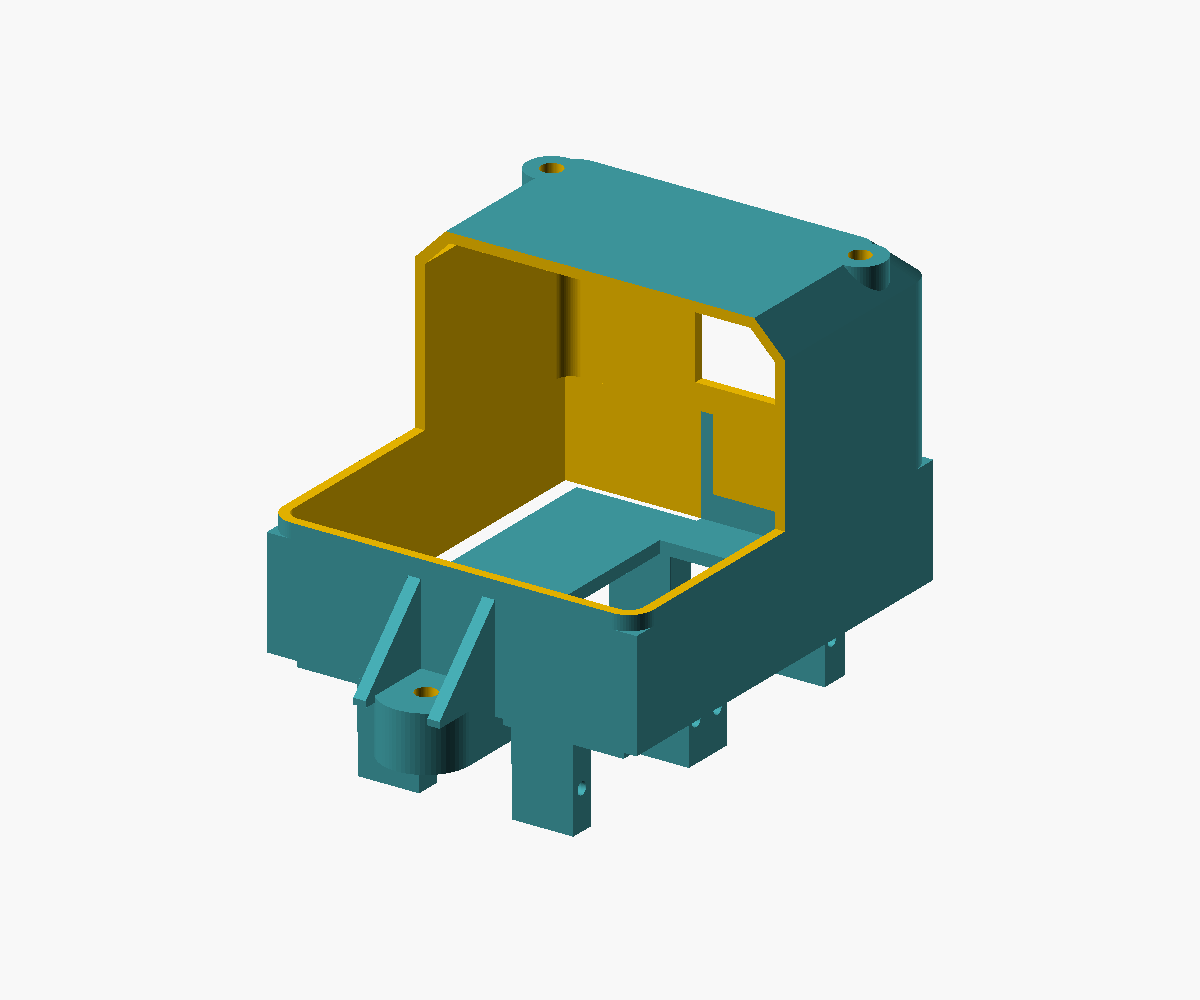
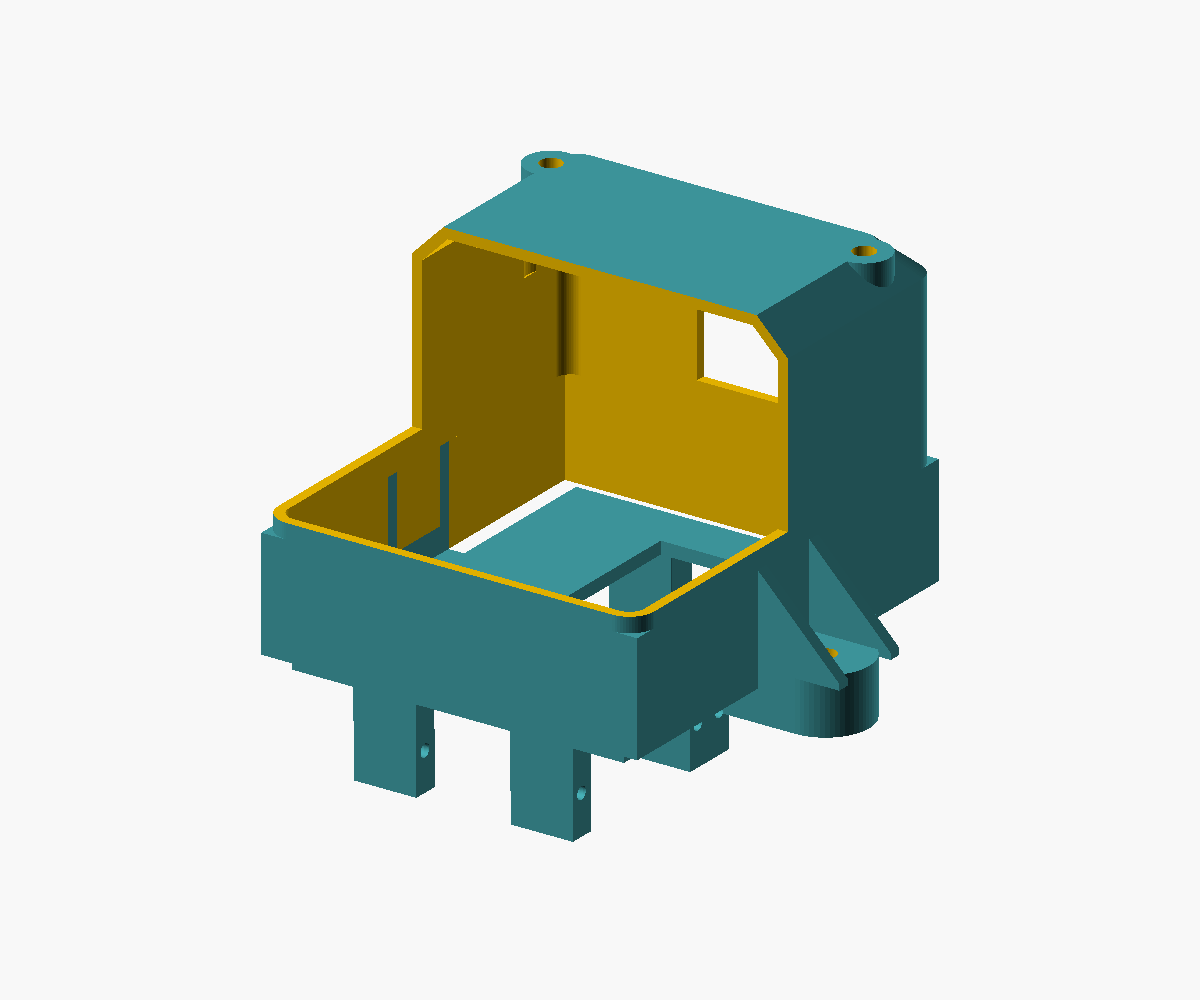
fix: use MicroHuli side tabs and 12 mm roof holders

diff --git a/hardware/MicroHuli/enclosure/build_body.py b/hardware/MicroHuli/enclosure/build_body.py
@@ -79,46 +79,49 @@ def check_assembly(openscad):
         intersection("assembled body/chassis clearance (0.001 mm face tolerance)",
                      "body();", "translate([0,0,-0.001]) chassis();")
         # Independently specified axes catch misplaced holes and obstructions.
-        for y in (-41, 41):
-            intersection(f"chassis bolt {y}: shank/nut/tool access",
+        for x in (-36, 36):
+            intersection(f"chassis bolt {x}: shank/nut/tool access",
                          "union() { body(); chassis(); }", f'''union() {{
-                translate([0,{y},-6]) cylinder(d=3.2,h=11);
-                translate([0,{y},-20]) cylinder(d=5.5/cos(30),h=17.5,$fn=6);
-                translate([0,{y},4.1]) cylinder(d=8,h=30);
+                translate([{x},0,-6]) cylinder(d=3.2,h=11);
+                translate([{x},0,-20]) cylinder(d=5.5/cos(30),h=17.5,$fn=6);
+                translate([{x},0,4.1]) cylinder(d=8,h=30);
             }}''')
-            intersection(f"external tab support at bolt {y}", "body();", f'''difference() {{
-                translate([0,{y},0.1]) cylinder(d=10,h=0.4);
-                translate([0,{y},0]) cylinder(d=4,h=1);
+            intersection(f"external tab support at bolt {x}", "body();", f'''difference() {{
+                translate([{x},0,0.1]) cylinder(d=10,h=0.4);
+                translate([{x},0,0]) cylinder(d=4,h=1);
             }}''', 26.3, 26.4)
         for x in (-25, 25):
             for y in (-25, 25):
                 intersection(f"board bolt {x},{y}: shank/head/nut access", "body();", f'''union() {{
-                    translate([{x},{y},44.9]) cylinder(d=3.2,h=7);
+                    translate([{x},{y},37.9]) cylinder(d=3.2,h=14);
                     translate([{x},{y},50.01]) cylinder(d=7,h=15);
-                    translate([{x},{y},40]) cylinder(d=7,h=3.3);
+                    translate([{x},{y},33]) cylinder(d=7,h=3.3);
                 }}''')
                 # Support exists at the PCB contact plane, not just at the roof.
                 intersection(f"board support {x},{y}", "body();", f'''difference() {{
-                    translate([{x},{y},45.1]) cylinder(d=7,h=0.4);
-                    translate([{x},{y},45]) cylinder(d=4,h=1);
+                    translate([{x},{y},38.1]) cylinder(d=7,h=0.4);
+                    translate([{x},{y},38]) cylinder(d=4,h=1);
                 }}''', 10.3, 10.4)
         intersection("rear 15 x 15 opening", "body();",
                      "translate([-7.49,33,20.01]) cube([14.98,3,14.98]);")
         intersection("front OLED slot", "body();",
                      "translate([-9.99,-36,40.01]) cube([19.98,3,2.98]);")
-        intersection("OLED wire passage below raised board", "body();",
+        intersection("existing OLED cable passage above lowered board", "body();",
                      "translate([-4,-36,41]) cube([8,36,1.5]);")
         # Compare added material against the shell so its rounded corners are
         # not incorrectly classified as internal fastener obstructions.
         intersection("lower body cavity clear of chassis mounts", "difference() { body(); shell(); }",
-                     "translate([-29,-33.99,0.01]) cube([58,67.98,19.9]);")
+                     "translate([-28.99,-33.99,0.01]) cube([57.98,67.98,19.9]);")
         intersection("chassis entirely below the plate plane", "chassis();",
                      "translate([-50,-50,0.01]) cube([100,100,30]);")
         intersection("no original chassis cuts", "rotate([180,0,0]) original_chassis();",
                      "difference() { cube([120,120,120],center=true); chassis(); }")
-        intersection("no added material in servo bays", '''difference() {
+        # Original brackets occupy approximately X=-17.5..17.7, Y=-32..32.
+        # Keep additions outside a larger bracket region; real moving legs are
+        # not modeled by this check and still need physical qualification.
+        intersection("no added material around original servo brackets", '''difference() {
             chassis(); rotate([180,0,0]) original_chassis();
-        }''', "translate([-27,-30.9,-20]) cube([54,61.8,19.9]);")
+        }''', "translate([-20,-33,-20]) cube([40,66,19.9]);")
         # Isolate the independent CAD renders and allow at most four processes
         # at once to keep verification time and memory use bounded.
         with ThreadPoolExecutor(max_workers=4) as pool:
@@ -140,16 +143,16 @@ def main():
     output.mkdir(parents=True, exist_ok=True)
     reports = {}
     for name in ("body", "chassis"):
-        path = output / f"MicroHuli_{name}_M3_v5.stl"
+        path = output / f"MicroHuli_{name}_M3_v6.stl"
         render(openscad, SOURCE, path, "--export-format", "binstl", "-D", f'part="{name}"')
         reports[name] = mesh(path)[2]
-        expected = [60, 96, 50] if name == "body" else [53, 96, 15.996]
+        expected = [86, 70, 50] if name == "body" else [86, 66, 15.996]
         if any(not math.isclose(a, b, abs_tol=0.01)
                for a, b in zip(reports[name]["size_mm"], expected)):
             raise ValueError(f"Unexpected {name} dimensions: {reports[name]}")
         print(f"PASS {name}: {reports[name]}")
     checks = check_assembly(openscad)
-    (output / "body_M3_v5_report.json").write_text(json.dumps({
+    (output / "body_M3_v6_report.json").write_text(json.dumps({
         "parts": reports, "checks": checks,
         "qualification": "CAD geometry only; no slicing or physical qualification",
     }, indent=2) + "\n", encoding="utf-8")
@@ -160,7 +163,7 @@ def main():
             ("exploded", "120,-170,125,0,0,35"),
             ("body", "110,160,-100,0,0,25"),
         ):
-            render(openscad, SOURCE, output / f"body_M3_v5_{name}.png",
+            render(openscad, SOURCE, output / f"body_M3_v6_{name}.png",
                    "--render", "--imgsize=1200,1000", "--colorscheme=Tomorrow",
                    f"--camera={camera}", "--viewall", "--autocenter", "--projection=o",
                    "-D", f'part="{name}"', "-D", "print_orientation=false")

diff --git a/hardware/MicroHuli/enclosure/body-cute-50mm.md b/hardware/MicroHuli/enclosure/body-cute-50mm.md
@@ -4,10 +4,10 @@ This is the corrected body requested after the raised-rim interpretation was
 rejected. The main shell is **60 × 70 × 50 mm**, including the roof.
 It has a **closed top**, a small **5 mm sloped shoulder** like the original
 cover, softly rounded upper plan corners, and an open bottom for the chassis.
-The current **M3 v5** revision puts both chassis fasteners on external front/rear
+The current **M3 v6** revision puts both chassis fasteners on external left/right
 tabs. The chassis is assembled with its **flat plate on top and servo brackets
 pointing down**, leaving the body cavity free for components. Four roof standoffs
-hold the development board just above the OLED cable slot.
+hold the development board 12 mm below the outside roof top.
 
 ![Front and rear of the corrected body](body-cute-50mm.png)
 
@@ -21,23 +21,24 @@ hold the development board just above the OLED cable slot.
   **58 × 68 mm cavity for the first 16 mm**, without internal chassis mounting lugs.
   A short transition joins the square collar to rounded upper corners. The cavity
   narrows beneath the roof shoulder.
-- Two external chassis screws: **82 mm apart**, at X=0, Y=±41 mm. Each body tab
+- Two external chassis screws: **72 mm apart**, at X=±36 mm, Y=0. Each body tab
   is 4 mm thick and mates with a 5 mm chassis tab. Both have **3.4 mm through
   holes**. The chassis tabs have 5.8 mm across-flats nut pockets open from below.
   External side ribs reinforce the body tabs and leave the screw/tool axes clear.
   The original chassis plate and servo brackets have no holes or cuts added.
 - Four board screws: **50 × 50 mm centre-to-centre**, at X=±25, Y=±25 mm.
   Standoffs are 8 mm diameter with 3.4 mm through holes. Their PCB contact plane
-  is Z=45 mm, 5 mm below the outer roof top and 3.4 mm below the main roof
+  is Z=38 mm, 12 mm below the outer roof top and 10.4 mm below the main roof
   underside. Flat screw-head lands extend through the sloped roof shoulder;
   screw heads sit outside the roof. Local
   relief below the posts clears 7 mm washers/nuts and retains 1.3 mm outer wall.
-  With the assumed **1.6 mm PCB**, its underside is **Z=43.4 mm**, 0.4 mm above
-  the OLED slot's upper edge. Wires entering at Z=40–43 mm pass below the PCB.
+  With the assumed **1.6 mm PCB**, its underside is **Z=36.4 mm**. The post ends
+  and PCB top are 2 mm below the OLED slot's lower edge. Wires entering the
+  retained Z=40–43 mm slot pass **above the PCB**, between board and roof.
   The populated component outline and actual connector bend radius still need
   checking; this height does not establish a clear route around components.
-- The external tabs extend **13 mm beyond each end** of the shell. Body plastic
-  envelope is **60 × 96 × 50 mm**, revised chassis is **53 × 96 × 15.996 mm**.
+- The external tabs extend **13 mm beyond each side** of the shell. Body plastic
+  envelope is **86 × 70 × 50 mm**, revised chassis is **86 × 66 × 15.996 mm**.
   In assembly, the chassis extends below the body, giving about **66 mm total
   plastic height**, without legs or screw heads. The supplied board hole spacing
   does not establish the board outline,
@@ -45,9 +46,8 @@ hold the development board just above the OLED cable slot.
 
 ## M3 assembly
 
-Use the **M3 v5 body** with the v5 or v4 external-tab chassis. The chassis geometry
-is unchanged from v4, so an already printed v4 chassis can be reused. V3 parts
-have different internal mounts and are incompatible.
+Use the **matched M3 v6 body and chassis**. Both parts have new left/right tabs;
+v4/v5 front/rear-tab chassis parts cannot be reused with this body.
 Exported STL files are oriented for printing, not assembled positioning.
 
 1. With power disconnected, turn the printed chassis over so the flat plate is
@@ -56,14 +56,14 @@ Exported STL files are oriented for printing, not assembled positioning.
 2. Put **two ordinary M3 hex nuts** into the underside pockets of the external
    chassis tabs. All chassis fastener hardware is accessible outside the shell;
    printed nut retention is not assumed.
-3. Mount the development board under the roof using **four M3 × 12 mm bolts,
+3. Mount the development board under the roof using **four M3 × 18 mm bolts,
    four M3 nuts and suitable M3 washers**. Bolts enter from outside the roof,
    pass through the standoffs and board, and receive nuts below the PCB. The
-   PCB top meets Z=45 mm; orient populated components toward the open bottom
+   PCB top meets Z=38 mm; orient populated components toward the open bottom
    where possible. Use insulating washers and verify clearance from copper,
    solder and components. The length assumes approximately 1.6 mm PCB thickness;
    dry-fit the hardware and check protruding ends before tightening.
-4. Align the external front/rear body and chassis tabs. Insert **two M3 × 12 mm
+4. Align the external left/right body and chassis tabs. Insert **two M3 × 12 mm
    bolts with washers from above the body tabs**, into the chassis nuts below.
    Grip to each nut's bearing face is approximately 6.4 mm. Hold the nuts from
    below if necessary and tighten gently. The external ribs clear an 8 mm tool
@@ -71,14 +71,37 @@ Exported STL files are oriented for printing, not assembled positioning.
 5. Check USB access through the enlarged rear opening, wire routing, battery
    clearance and leg travel before powering the robot.
 
-**Use a chassis with the integral external tabs:** v4 and v5 are identical.
-The original chassis and v3 do not have these tabs. The current design adds
-material only at the front/rear tabs, leaving the original servo bays clear in CAD. Physical
-servo, leg and ground clearance still need checking.
+**Reprint both matched v6 parts** to move the attachment to the left/right sides.
+The original servo brackets are preserved. Added tab material stays outside a
+40 × 66 mm region around those brackets in CAD. The real servos, horns and
+moving legs are not modeled: side-tab clearance through their full travel still
+needs physical checking before use.
 
 ![M3 body and chassis, cut away to show the mounts](body-m3-cutaway.png)
 
 ![Roof holder height and OLED wire position](board-cable-height.png)
+
+## OLED mounting recommendation
+
+The four OLED PCB holes can take small through bolts, washers and spacers on a
+removable printed adapter. Prefer adjustable slots until the actual module is
+identified. Start by checking whether M2 bolts pass freely; the PCB hole size
+determines the fastener, independently of the body's M3 hardware. Nylon washers
+and approximately 3–5 mm spacers are a starting point for separating the PCB's
+solder joints from the adapter; verify the actual header and connector clearance.
+Choose bolt length from the complete PCB/spacer/bracket/nut stack.
+
+SH1106 is a controller designation, not a standard mechanical footprint.
+[LCDWIKI's I2C module](https://www.lcdwiki.com/res/MC130GX_VX/1.3inch_IIC_OLED_Module_MC130GX%26MC130VX_User_Manual_EN.pdf)
+has a 33.5 × 35.4 mm PCB, while
+[Waveshare's SH1106 module](https://www.waveshare.com/wiki/1.3inch_OLED_%28A%29)
+is 40.5 × 37.5 mm. As another mechanical example,
+[Adafruit's 1.3-inch breakout](https://www.adafruit.com/product/938) specifies
+30.5 × 28 mm hole spacing with 2.5 mm holes; it uses a different controller and
+does not identify the owner's module. A fixed OLED screw pattern or adjustable
+adapter is **not included in these STL files**. Confirm the actual hole pattern
+before adding or printing that mount; support the PCB at its mounting holes,
+without clamping the display glass.
 
 ## Export and print
 
@@ -90,10 +113,10 @@ python hardware/MicroHuli/enclosure/build_body.py --previews
 
 Outputs in `exports/`:
 
-- `MicroHuli_body_M3_v5.stl`: body, roof on the bed.
-- `MicroHuli_chassis_M3_v5.stl`: chassis with matching external tabs, flat plate
+- `MicroHuli_body_M3_v6.stl`: body, roof on the bed.
+- `MicroHuli_chassis_M3_v6.stl`: chassis with matching external tabs, flat plate
   on the bed and servo brackets upward. Flip it over for assembly.
-- `body_M3_v5_report.json`: mesh, dimensions, mating clearance, port and fastener
+- `body_M3_v6_report.json`: mesh, dimensions, mating clearance, port and fastener
   access checks. Generated previews include assembled, cutaway and exploded views.
 
 The body export puts the closed central roof on the bed and the open bottom upward.

diff --git a/tasks/microhuli-import.md b/tasks/microhuli-import.md
@@ -190,3 +190,38 @@ Physical Nano/OLED/IR, the connected build's 485-byte runtime memory margin and 
   matched STL files, guide, report and previews are included in that package.
 - PCB outline, component placement, cable/connector dimensions, solder clearance
   and actual printed fit remain unmeasured. No slicing or firmware changes.
+
+## Side tabs and 12 mm roof holders
+
+- User requested moving the two external body/chassis fasteners to the other
+  sides; move the axes to X=±36 mm, Y=0, 72 mm apart. Tabs extend 13 mm beyond
+  each side, giving an 86 × 70 × 50 mm body envelope. Revised chassis envelope
+  is 86 × 66 × 15.996 mm. Both matched parts must be reprinted.
+- Keep the chassis plate up and brackets down. Preserve all original chassis
+  material and keep tab additions outside a 40 × 66 mm region around its measured
+  printed servo brackets. Actual servo bodies, horns and moving legs are not
+  modeled; side-tab clearance through their full travel needs qualification.
+- User then explicitly requested roof holders 12 mm below the outside top,
+  superseding the 5 mm height. Board contact is Z=38 mm; a nominal 1.6 mm PCB
+  underside is Z=36.4 mm. Nominal roof hardware becomes M3 × 18 mm with suitable
+  washers/nuts and a dry-fit. The original OLED cable slot is above this board;
+  the current slot height is retained.
+- Researched OLED mounts at the user's request. SH1106 identifies the controller,
+  not the PCB's mounting geometry. Recommend a removable slotted adapter with
+  small through bolts and nylon spacers; actual module hole size/pitch remains
+  unidentified. No fixed OLED mounting pattern has been added to the model.
+- Owner requested a dimension visualization and resolved the unit ambiguity by
+  confirming **12 mm below the roof top**. No 120 mm geometry was applied. The
+  retained OLED slot is 7–10 mm below the roof top, so its cable enters above
+  the board, 2 mm above the PCB contact plane.
+- Reuse branch and draft PR #55. The final v6 exporter passes both closed,
+  consistently wound, connected positive-volume mesh checks and all 20 CAD
+  access/clearance/preservation checks with the side tabs and 12 mm holders.
+  Independent trimesh/manifold checks confirm both meshes, exact zero assembly
+  overlap and the clear central lower cavity. All six CAD views and the corrected
+  12 mm height diagram were visually reviewed.
+- Python compilation, changed Markdown formatting, guide links, diff review and
+  the 19-file `exports/MicroHuli_M3_v6.zip` integrity check pass. The package holds
+  matched STL files, editable source, guide, diagram, previews and geometry report.
+  Update draft [PR #55](https://github.com/oneway8x-com/OpenHuli/pull/55) with this
+  final side-tab/12 mm design. No slicing, printing or firmware/application changes.

diff --git a/hardware/MicroHuli/enclosure/README.md b/hardware/MicroHuli/enclosure/README.md
@@ -2,11 +2,11 @@
 
 For the corrected **60 × 70 × 50 mm body with a closed roof and small sloped
 edge**, see [the rounded 50 mm cover](body-cute-50mm.md). It retains an
-original-style OLED cable slot. Its M3 v5 revision has a 15 × 15 mm rear opening,
-external front/rear chassis screw tabs and four roof board mounts on a 50 × 50 mm
-pattern. The 5 mm roof holders place the PCB just above the OLED cable slot.
+original-style OLED cable slot. Its M3 v6 revision has a 15 × 15 mm rear opening,
+external left/right chassis screw tabs and four roof board mounts on a 50 × 50 mm
+pattern. The 12 mm roof holders place the PCB top 2 mm below the OLED cable slot.
 The chassis plate faces up with servo brackets down. Tabs increase the
-total body length to 96 mm; the shell remains 70 mm long. Use its matched
+total body width to 86 mm; the shell remains 60 mm wide. Use its matched
 body/chassis exports and assembly instructions. The
 [flat-top version](body-50mm.md) remains a separate alternative; the
 [100 mm raised-rim interpretation](body-cute-rim.md) was rejected by the owner.
